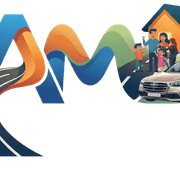
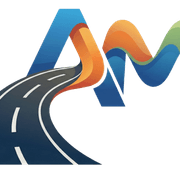
fix: proper AutoMALL.png branding across all touchpoints
- Regenerated favicon with AM letters crop (recognizable at 32x32)
- Navbar now shows full panoramic logo (not forced square crop)
- Footer uses optimized panoramic variant
- App icon (192x192) cropped to AM letters area
- PWA icons (192/512) with clean AM crop
- Apple touch icon with proper AM focus
- OG image with am-dark background for social sharing
- Removed broken square crop variant

Made by mbxarts.com The Moon in a Box property

Co-Author: Godez22

diff --git a/components/layout/Navbar.tsx b/components/layout/Navbar.tsx
@@ -45,25 +45,19 @@ export const Navbar: React.FC = () => {
         <div className="flex justify-between items-center py-3">
           {/* Logo and Brand */}
           <div className="flex items-center space-x-2">
-            <Link href="/" className="flex items-center space-x-2">
-              <div className="relative w-12 h-12">
-                <Image
-                  src="/logo-automall-square.png"
-                  alt="Autos MALL"
-                  width={48}
-                  height={48}
-                  className="rounded-xl object-cover shadow-lg"
-                  priority
-                  onError={(e) => {
-                    const target = e.target as HTMLImageElement;
-                    target.style.display = 'none';
-                  }}
-                />
-              </div>
-              <div>
-                <div className="font-bold text-xl text-gray-900 dark:text-white">Autos</div>
-                <div className="text-xs font-bold -mt-1 text-am-orange dark:text-am-orange">MALL</div>
-              </div>
+            <Link href="/" className="flex items-center">
+              <Image
+                src="/logo-automall-nav.png"
+                alt="Autos MALL"
+                width={120}
+                height={66}
+                className="h-11 w-auto drop-shadow-md"
+                priority
+                onError={(e) => {
+                  const target = e.target as HTMLImageElement;
+                  target.style.display = 'none';
+                }}
+              />
             </Link>
           </div>
 

diff --git a/components/layout/Footer.tsx b/components/layout/Footer.tsx
@@ -31,24 +31,18 @@ export const Footer: React.FC = () => {
         <div className="grid md:grid-cols-4 gap-8">
           {/* Brand */}
           <div className="col-span-1">
-            <div className="flex items-center space-x-2 mb-4">
-              <div className="relative w-10 h-10">
-                <Image
-                  src="/logo-automall-square.png"
-                  alt="Autos MALL"
-                  width={40}
-                  height={40}
-                  className="rounded-xl object-cover"
-                  onError={(e) => {
-                    const target = e.target as HTMLImageElement;
-                    target.style.display = 'none';
-                  }}
-                />
-              </div>
-              <div>
-                <div className="font-bold text-xl">Autos</div>
-                <div className="text-xs font-bold -mt-1 text-am-orange">MALL</div>
-              </div>
+            <div className="mb-4">
+              <Image
+                src="/logo-automall-footer.png"
+                alt="Autos MALL"
+                width={160}
+                height={88}
+                className="h-12 w-auto drop-shadow-md"
+                onError={(e) => {
+                  const target = e.target as HTMLImageElement;
+                  target.style.display = 'none';
+                }}
+              />
             </div>
             <p className="text-gray-400 text-sm mb-4">
               {t('brand.description')}
